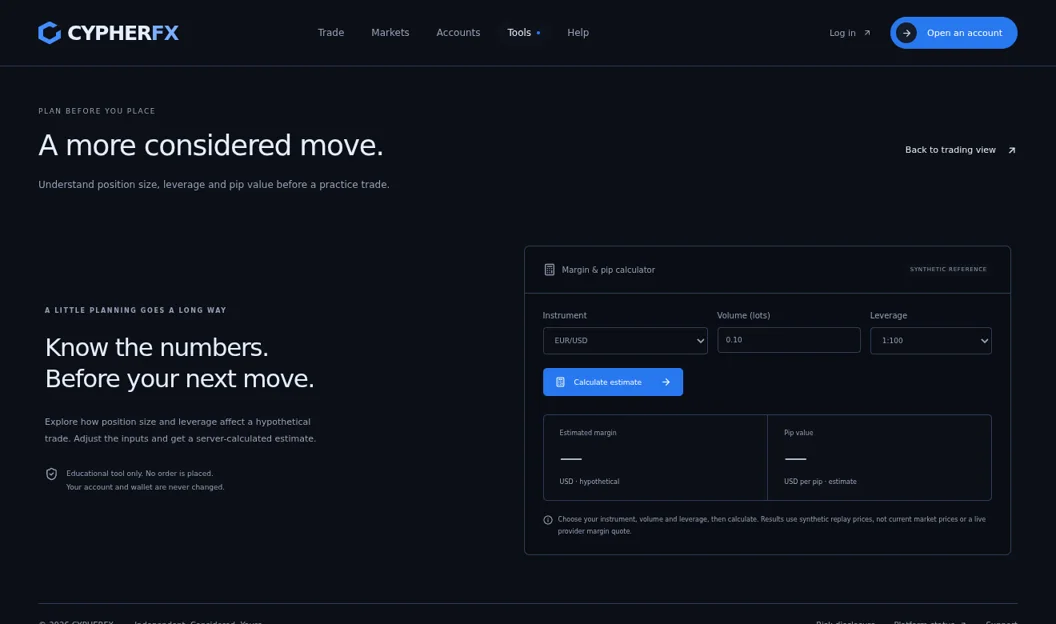
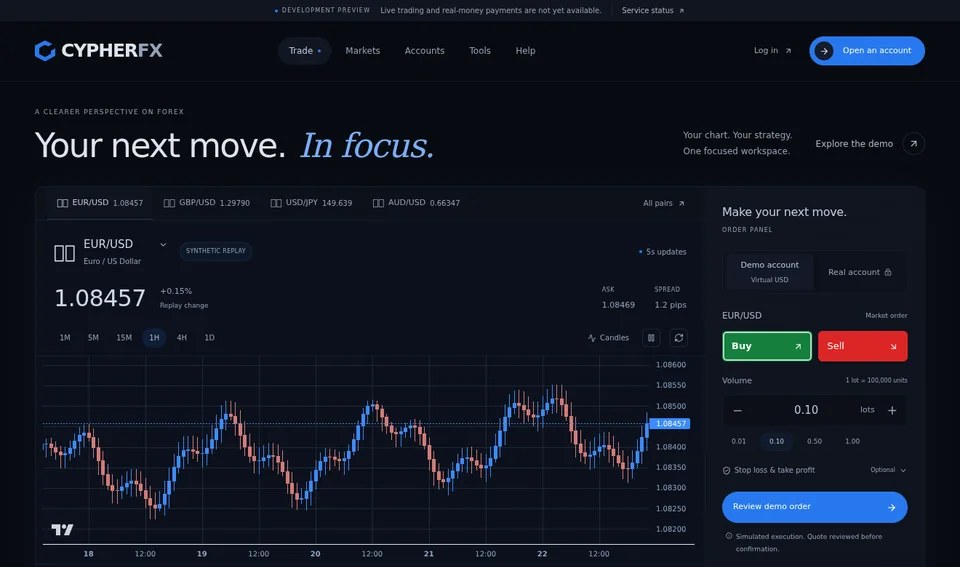
Show linked landing-page thumbnails across the portfolio

diff --git a/app/(public)/page.tsx b/app/(public)/page.tsx
@@ -1,6 +1,5 @@
 import PortfolioImage from "@/components/PortfolioImage";
 import ServiceFinder from "@/components/ServiceFinder";
-import ProductTile from "@/components/ProductTile";
 import { copyFor } from "@/lib/content";
 import Link from "next/link";
 import {
@@ -244,15 +243,12 @@ export default async function HomePage() {
             {PRODUCTS.map((p, i) => (
               <Reveal key={p.slug} delay={i * 0.06}>
                 <div className="flex h-full flex-col rounded-xl2 border border-white/12 bg-white/5 p-6 transition hover:bg-white/10">
-                  <div
-                    className={`grid h-14 w-14 place-items-center rounded-2xl bg-forest-800 font-display text-xl font-extrabold text-white`}
-                  >
-                    <ProductTile
-                      slug={p.slug}
-                      name={p.name}
-                      logo={p.logo_url}
-                    />
-                  </div>
+                  <PortfolioImage
+                    slug={p.slug}
+                    name={p.name}
+                    url={p.url}
+                    images={p.screenshots}
+                  />
                   <p className="mt-4 text-xs font-bold uppercase tracking-wider text-emerald2-light">
                     {p.category}
                   </p>
@@ -303,7 +299,7 @@ export default async function HomePage() {
             <Reveal key={p.slug} delay={i * 0.06}>
               <article className="card group flex h-full flex-col overflow-hidden transition hover:-translate-y-1 hover:shadow-lift">
                 <PortfolioImage
-                  section="projects"
+                  url={p.url}
                   slug={p.slug}
                   name={p.name}
                   images={p.screenshots}
@@ -394,29 +390,29 @@ export default async function HomePage() {
             <div className="mt-8 space-y-4">
               {PRODUCTS.map((p) => (
                 <Reveal key={p.slug}>
-                  <Link
-                    href={`/products/${p.slug}`}
-                    className="card group flex items-center gap-4 p-5 transition hover:shadow-lift"
-                  >
-                    <span
-                      className={`grid h-12 w-12 shrink-0 place-items-center rounded-xl bg-forest-800 font-display font-extrabold text-white`}
+                  <div className="card flex items-center gap-4 p-4">
+                    <PortfolioImage
+                      compact
+                      slug={p.slug}
+                      name={p.name}
+                      url={p.url}
+                      images={p.screenshots}
+                    />
+                    <Link
+                      href={`/products/${p.slug}`}
+                      className="group flex flex-1 items-center gap-2"
                     >
-                      <ProductTile
-                        slug={p.slug}
-                        name={p.name}
-                        logo={p.logo_url}
-                      />
-                    </span>
-                    <span className="flex-1">
-                      <span className="block font-display font-bold text-action">
-                        {p.name}
+                      <span className="flex-1">
+                        <span className="block font-display font-bold text-action">
+                          {p.name}
+                        </span>
+                        <span className="block text-sm text-slate2">
+                          {p.classification}
+                        </span>
                       </span>
-                      <span className="block text-sm text-slate2">
-                        {p.classification}
-                      </span>
-                    </span>
-                    <ArrowUpRight className="h-5 w-5 text-action transition group-hover:translate-x-0.5 group-hover:-translate-y-0.5" />
-                  </Link>
+                      <ArrowUpRight className="h-5 w-5 text-action transition group-hover:translate-x-0.5 group-hover:-translate-y-0.5" />
+                    </Link>
+                  </div>
                 </Reveal>
               ))}
             </div>

diff --git a/components/PortfolioImage.tsx b/components/PortfolioImage.tsx
@@ -1,31 +1,48 @@
-import Link from "next/link";
-import { previewImages } from "@/lib/portfolio-images";
+import { ExternalLink } from "lucide-react";
+import { previewImages, previewSrcSet } from "@/lib/portfolio-images";
 export default function PortfolioImage({
   slug,
   name,
   images,
-  section,
+  url,
+  compact = false,
 }: {
   slug: string;
   name: string;
   images?: string[];
-  section: "projects" | "products";
+  url: string;
+  compact?: boolean;
 }) {
   const src = previewImages(slug, images)[0];
-  return src ? (
-    <Link
-      href={`/${section}/${slug}`}
-      className="portfolio-image"
-      aria-label={`Explore ${name}`}
+  return (
+    <a
+      href={url}
+      target="_blank"
+      rel="noopener noreferrer"
+      className={`portfolio-image ${compact ? "w-24 shrink-0 rounded" : ""}`}
+      aria-label={`Visit ${name} website (opens in a new tab)`}
     >
-      <img
-        src={src}
-        alt={`${name} interface preview`}
-        width="1056"
-        height="624"
-        loading="lazy"
-        decoding="async"
-      />
-    </Link>
-  ) : null;
+      {src ? (
+        <img
+          src={src}
+          srcSet={previewSrcSet(slug, src)}
+          sizes={
+            compact
+              ? "96px"
+              : "(max-width: 640px) 90vw, (max-width: 1024px) 48vw, 440px"
+          }
+          alt={`${name} website preview`}
+          width="960"
+          height="567"
+          loading="lazy"
+          decoding="async"
+        />
+      ) : (
+        <span className="grid h-full place-content-center gap-1 text-center text-sm text-slate2">
+          <ExternalLink className="mx-auto h-5 w-5" />
+          Visit website<span className="text-xs">Preview unavailable</span>
+        </span>
+      )}
+    </a>
+  );
 }

diff --git a/components/PlatformPreview.tsx b/components/PlatformPreview.tsx
@@ -1,5 +1,5 @@
 "use client";
-import { previewImages } from "@/lib/portfolio-images";
+import { previewImages, previewSrcSet } from "@/lib/portfolio-images";
 import { useState } from "react";
 import { ExternalLink, Monitor } from "lucide-react";
 export default function PlatformPreview({
@@ -30,16 +30,26 @@ export default function PlatformPreview({
         </a>
       </div>
       {previewImages(slug, screenshots).map((s, i) => (
-        <img
+        <a
           key={s}
-          src={s}
-          loading="lazy"
-          width="1056"
-          height="624"
-          decoding="async"
-          className="h-auto w-full"
-          alt={`${name} screenshot ${i + 1}`}
-        />
+          href={url}
+          target="_blank"
+          rel="noopener noreferrer"
+          className="block"
+          aria-label={`Visit ${name} website (opens in a new tab)`}
+        >
+          <img
+            srcSet={previewSrcSet(slug, s)}
+            sizes="(max-width: 960px) 100vw, 960px"
+            src={s}
+            loading="lazy"
+            width="1056"
+            height="624"
+            decoding="async"
+            className="h-auto w-full"
+            alt={`${name} screenshot ${i + 1}`}
+          />
+        </a>
       ))}
       {open ? (
         <>

diff --git a/lib/portfolio-images.ts b/lib/portfolio-images.ts
@@ -1,13 +1,25 @@
-/** Local captures from the public interfaces. CMS screenshots take precedence. */
-const sourceCaptures: Record<string, string> = {
-  "view-point-inn": "/portfolio/view-point-inn.webp",
-  "cypher-fx": "/portfolio/cypher-fx.webp",
-};
+/** Source and provenance for these local landing pages: public/portfolio/CREDITS.md. */
+const captures = new Set([
+  "cypher-terra",
+  "edvora-lms",
+  "cypher-fx",
+  "chalar-farm-inventory",
+  "kingangi-hotel-system",
+  "sensei-brand-portfolio",
+  "frontpage-supermarket",
+  "view-point-inn",
+  "summertime-grooming-beauty-hub",
+]);
 export function previewImages(slug: string, images: string[] = []) {
   const approved = images.filter((s) => /^https:\/\//i.test(s));
   return approved.length
     ? approved
-    : sourceCaptures[slug]
-      ? [sourceCaptures[slug]]
+    : captures.has(slug)
+      ? [`/portfolio/${slug}.webp`]
       : [];
+}
+export function previewSrcSet(slug: string, src: string) {
+  return captures.has(slug) && src === `/portfolio/${slug}.webp`
+    ? `/portfolio/${slug}-480.webp 480w, ${src} 960w`
+    : undefined;
 }

diff --git a/app/(public)/products/page.tsx b/app/(public)/products/page.tsx
@@ -33,7 +33,7 @@ export default async function ProductsPage() {
             <Reveal key={p.slug} delay={i * 0.06}>
               <article className="card group flex h-full flex-col overflow-hidden transition hover:-translate-y-1 hover:shadow-lift">
                 <PortfolioImage
-                  section="products"
+                  url={p.url}
                   slug={p.slug}
                   name={p.name}
                   images={p.screenshots}

diff --git a/app/(public)/projects/page.tsx b/app/(public)/projects/page.tsx
@@ -45,7 +45,7 @@ export default async function ProjectsPage() {
             <Reveal key={p.slug} delay={i * 0.05}>
               <article className="card group flex h-full flex-col overflow-hidden transition hover:-translate-y-1 hover:shadow-lift">
                 <PortfolioImage
-                  section="projects"
+                  url={p.url}
                   slug={p.slug}
                   name={p.name}
                   images={p.screenshots}

diff --git a/public/portfolio/CREDITS.md b/public/portfolio/CREDITS.md
@@ -1,3 +1,22 @@
-View Point Inn: browser capture of the public home template, using the actual layout, imagery, fonts and CSS from https://github.com/Cypher-techy/VIEW-POINT-INN. No private dashboard or customer data is shown. This is a screenshot of the project source, not a fabricated interface.
+# Portfolio landing pages
 
-Cypher FX: browser capture of the actual public `/tools` page components, styles and default form state from https://github.com/Cypher-techy/cypher-fx, rendered locally. No account, quote feed or transaction was used.
+All thumbnails are static WebP images of public interfaces, not live embeds. The 480px and 960px files use the same top-aligned crop. A published CMS screenshot list overrides these defaults; its first HTTPS image becomes the card thumbnail.
+
+Six captures come from the [developer’s portfolio](https://erictechy-web.netlify.app/) ([original project images](https://github.com/Cypher-techy/cypher/tree/main/projects)):
+
+| CGS entry | Original |
+| --- | --- |
+| Cypher Terra | cypher-green-systems.jpg |
+| Kingang’i Hotel System | kingangi-hotel.jpg |
+| Sensei Brand & Portfolio | sensei-digital.jpg |
+| Frontpage Supermarket | frontpage-supermarket.jpg |
+| View Point Inn | viewpoint-inn.jpg |
+| Summertime Grooming & Beauty Hub | summertime.jpg |
+
+Three are Chromium captures of the public home route rendered locally from the project source (1320 × 780 before resizing):
+
+- [Edvora LMS](https://github.com/Cypher-techy/learning-management-system): the landing page is branded **Elimu Bora**.
+- [Chalar Farm Inventory](https://github.com/Cypher-techy/Chalar-farm-inventory-system): the grower’s public Chalar Farms homepage, not the staff portal.
+- [Cypher FX](https://github.com/Cypher-techy/cypher-fx): the beta homepage with its built-in practice chart, not the older CypherFX page on the reference portfolio. No account or transaction was used.
+
+RGC Makindu has no verified capture bundled. Its card retains the live URL and indicates that the preview is unavailable until an approved screenshot is supplied.
